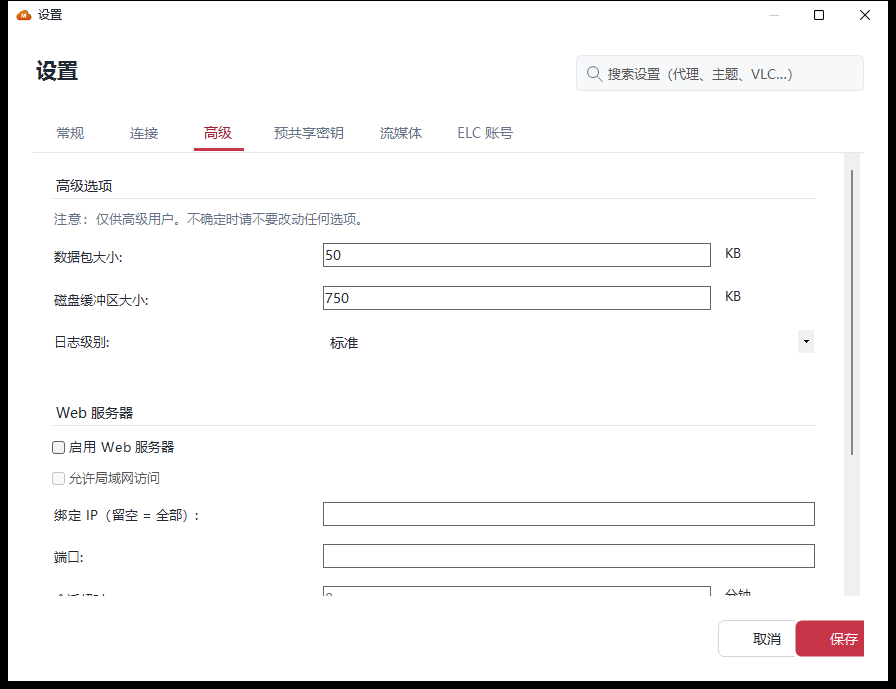
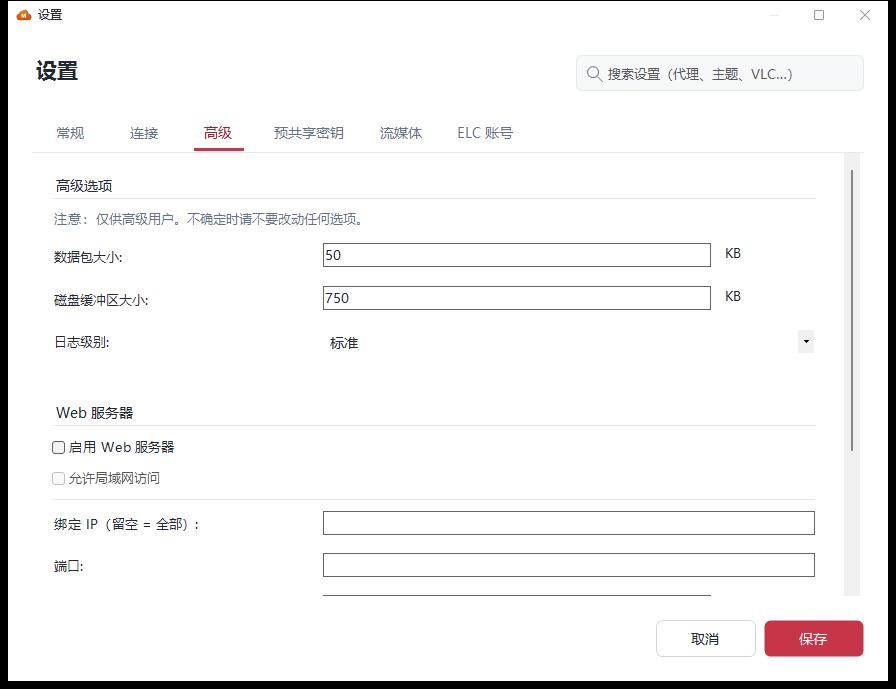
fix(ui): compact task details and add settings dividers; sync docs for revised 2.6.3
- Details panel: label and value share a row under a single-line title; the
  label column is measured from the current language's captions to avoid
  clipping, and the layout cache keys on size+captions so periodic value
  refreshes do not re-layout while language switches do. Removes the tall
  stacked rows and the scrollbar in the bottom details area.
- Settings: add SettingsDivider rules between logical sub-sections (general
  path / behaviour+update / appearance, proxy enable / params, web enable /
  params), matching the section-title rule colour so spacing reads as structure.
- Regenerate native screenshots from the Release fixture; sync CHANGELOG, the
  three READMEs, Tests / system-language / visual-refresh / screenshot /
  self-test notes to the revised 2.6.3 (1121 assertions, UI fixture 271).

Version stays 2.6.3; this replaces the original 2.6.3 release assets in place.

diff --git a/docs/CHANGELOG.md b/docs/CHANGELOG.md
@@ -14,7 +14,8 @@
 - 更新检查可配置：支持「仅手动检查」与自定义间隔（小时），后台不再固定定时弹窗；帮助菜单仍可手动检查并提示结果。
 - 简体中文界面文案整体重写为自然简体（511 条），旧安装升级时未自定义的语言副本自动同步；设置页「仅手动检查」「小时」按语言显示，浏览按钮不再拉宽压住输入框。
 - 下载与解压可靠性加固：分裂 key 链接识别、多卷等待状态机闭合、7z 事务式回滚、超长归档名哈希唯一化、加密多卷 RAR 本地化提示、流媒体 502 响应与下载退避代际修复。
-- 深浅色主题对比度达 WCAG 4.5:1；代理 host:port 解析、解压中退出提示与启动队列加载失败恢复修复；移除 18 个零引用死成员并归档文档。Debug / Release 完整回归各通过 **1102 项断言**。
+- 界面布局修正：修复添加链接 / 设置 / 预检 / 定时对话框底部按钮重叠（根因一处钳制）；选中任务的详情面板改为「标签＋值同行」紧凑布局、标题单行；设置分组内逻辑子段之间补分割线。
+- 深浅色主题对比度达 WCAG 4.5:1；代理 host:port 解析、解压中退出提示与启动队列加载失败恢复修复；移除 18 个零引用死成员并归档文档。Debug / Release 完整回归各通过 **1121 项断言**。
 
 ### 2.6.2（2026-11-05）
 
@@ -192,9 +193,16 @@
 - 移除 18 个零引用的死成员（含已下线的 IPC Remoting 入口、未接线的 SSL 回调与按钮事件、XP 版本判断、冗余包装方法等），覆盖 14 个源文件、148 行；无完全未引用的类型。
 - 删除首次提交带入的构建产物 `My Project/Resources.resources`（384KB，构建实际在 `obj/` 生成）；根目录两份审计笔记归入 `docs/`，清理空目录与失效的 `.gitignore` 条目。
 
+### 🖥 界面布局修正
+
+- 修复添加链接、设置、预检与定时对话框底部按钮重叠：`CommandButton.GetPreferredSize` 此前只报内容宽度、未按 `MinimumSize` 钳制，RightToLeft 流式面板按偏小值分配槽位，被撑宽的按钮溢出邻位（添加链接的取消 / 选择文件曾重叠 43px）。在根因处一处钳制即修复全部四处，且不复发浏览按钮被瞬态布局拉宽后缩不回的膨胀。
+- 主窗口选中任务的详情面板改为「标签＋值同行」紧凑布局，标题收为单行，消除原先标签 / 值上下堆叠造成的高留白与滚动条；标签列宽按当前语言字段名实测，避免翻译裁切，布局缓存按尺寸＋字段名区分（数值刷新不重排、切语言才重排）。
+- 设置分组内逻辑子段之间补细分割线（常规：下载路径｜行为与更新｜语言主题；代理：启用｜参数；Web 服务器：启用｜参数），与分组标题横线同色，原本空荡的留白变得有结构。
+- 新增按钮不重叠回归守卫（遍历各对话框 RightToLeft 操作面板、两两校验，含非空校验防止空跑），界面夹具断言 252→271。
+
 ### 🧪 发布验证
 
-- Debug / Release 构建无编译警告，完整回归各通过 **1102 项断言**（924→1006→1102），新增失败横幅重试 / 永久过滤、主题对比度、浏览按钮几何、简中繁中字形守卫、用户语言副本同步、加密多卷 RAR 提示、split-key、长名哈希唯一化、非首分卷等待与 StreamingModule 原始 TCP 502 等用例。
+- Debug / Release 构建无编译警告，完整回归各通过 **1121 项断言**（924→1006→1121），新增失败横幅重试 / 永久过滤、主题对比度、浏览按钮几何、简中繁中字形守卫、用户语言副本同步、加密多卷 RAR 提示、split-key、长名哈希唯一化、非首分卷等待、StreamingModule 原始 TCP 502 与四对话框按钮不重叠等用例。
 - 发布 ZIP 沿用明确清单：EXE、15 个依赖 DLL 与运行配置，共 17 个文件；单文件 EXE 内嵌 15 个依赖。日志、PDB、测试输出、临时截图、用户配置与本地工具状态不进入提交或发布包。
 - 本轮未验证真实 MEGA 传输、完整进程冷启动或其他设备的多屏 / 高 DPI 行为；RAR4 / RAR5 / 旧式分卷与 TAR 的真实样本由维护者手动验证，未落入回归夹具。
 

diff --git a/docs/README.ru-RU.md b/docs/README.ru-RU.md
@@ -42,7 +42,8 @@
 - **Естественный упрощённый китайский** — все 511 строк zh-CN переписаны как естественный упрощённый китайский; существующие неизменённые языковые копии синхронизируются при обновлении. «Только ручная проверка» и единица часов переведены, а кнопки обзора больше не растягиваются поверх полей ввода.
 - **Надёжнее загрузки и распаковка** — разделённые ключи, испорченные мессенджерами, снова распознаются; многотомные архивы ждут и распаковываются комплектом; 7z распаковывается транзакционно с откатом при сбое; сверхдлинные имена получают уникальные хеш-суффиксы; ошибки зашифрованных многотомных RAR локализованы.
 - **Читаемые темы и безопасный выход** — контраст акцентов, фона и баннера квоты в светлой/тёмной теме соответствует WCAG 4.5:1; закрытие окна во время распаковки предупреждает о риске повреждения; исправлены разбор proxy host:port и восстановление загрузки очереди при старте.
-- **Чище код, 1102 проверки** — удалены 18 неиспользуемых мёртвых членов и посторонний артефакт сборки, документы упорядочены. Наборы Debug / Release проходят по 1102 регрессионные проверки. [Полный список изменений](CHANGELOG.md).
+- **Кнопки не перекрываются, компоновка плотнее** — кнопки отмены и основного действия больше не сталкиваются в окнах добавления ссылок, настроек, предпроверки и расписания; панель сведений о задаче стала компактной сеткой «метка＋значение» с однострочным заголовком; между подгруппами настроек добавлены разделительные линии.
+- **Чище код, 1121 проверки** — удалены 18 неиспользуемых мёртвых членов и посторонний артефакт сборки, документы упорядочены. Наборы Debug / Release проходят по 1121 регрессионные проверки. [Полный список изменений](CHANGELOG.md).
 
 ## Возможности рабочего стола, появившиеся в 2.6
 

diff --git a/Tests/README.md b/Tests/README.md
@@ -1,6 +1,6 @@
 # 回归验证
 
-2.6.3 发布检查（2026-11-14）：使用 `bin/Release-2.6.3` 独立输出目录运行完整回归与界面专项，Debug / Release 完整回归各通过 **1102 项断言**（924→1006→1102），界面专项通过 252 项。新增失败横幅重试 / 永久过滤、主题对比度、浏览按钮几何、简中繁中字形守卫、用户语言副本同步、加密多卷 RAR 提示、split-key、长名哈希唯一化、非首分卷等待与 StreamingModule 原始 TCP 502 等用例。单文件版校验全部 15 个内嵌依赖；ZIP 仅包含 EXE、15 个 DLL 与运行配置共 17 个文件。文档截图取自本次 Release 隔离夹具，清单见 [截图说明](../docs/screenshots/README.md)。本轮另移除 18 个零引用死成员与构建产物 `My Project/Resources.resources`，根目录审计笔记归入 `docs/`。
+2.6.3 修订包发布检查（2026-11-14，替换原始 2.6.3 资产）：使用 `bin/Release-uifix` 独立输出目录运行完整回归与界面专项，Debug / Release 完整回归各通过 **1121 项断言**（924→1006→1121），界面专项通过 271 项。在原始 2.6.3 用例（失败横幅重试 / 永久过滤、主题对比度、浏览按钮几何、简中繁中字形守卫、用户语言副本同步、加密多卷 RAR 提示、split-key、长名哈希唯一化、非首分卷等待、StreamingModule 原始 TCP 502）之上，新增四对话框 RightToLeft 操作面板按钮两两不重叠守卫（含非空校验）。单文件版校验全部 15 个内嵌依赖；ZIP 仅包含 EXE、15 个 DLL 与运行配置共 17 个文件。文档截图取自本次 Release 隔离夹具（详情面板紧凑同行、设置分组分割线），清单见 [截图说明](../docs/screenshots/README.md)。本轮另移除 18 个零引用死成员与构建产物 `My Project/Resources.resources`，根目录审计笔记归入 `docs/`。版本号保持 `2.6.3`，已装原始 2.6.3 需手动替换。
 
 2026-11-14 审计修复基线（a2c1d47）：Debug/Release 双跑完整回归各通过 **1006 项断言**（936→1006，新增 `FinalReleaseCases`：队列备份完整性、解压事务与回滚、分卷等待 lifecycle、停止代际竞态、更新提醒/代理）。RAR4/RAR5/旧式分卷与 TAR 的真实样本由维护者手动验证，未落入回归夹具。
 

diff --git a/README.md b/README.md
@@ -42,7 +42,8 @@
 - **Natural Simplified Chinese** — all 511 zh-CN strings rewritten as natural Simplified Chinese, and existing uncustomized language copies sync automatically on upgrade. "Manual check only" and the hour unit are now translated, and browse buttons no longer stretch over their input boxes.
 - **More reliable downloads and extraction** — split keys mangled by chat apps are recognised again; multi-volume archives wait and extract as a set; 7z extraction commits transactionally and rolls back on failure; over-long archive names get unique hash suffixes; encrypted multi-volume RAR errors are localized.
 - **Readable themes and safer exits** — light/dark accent, surface and quota-banner text meet WCAG 4.5:1 contrast; closing the window while extracting warns about corruption danger; proxy host:port parsing and startup queue-load recovery are fixed.
-- **Cleaner code, 1102 assertions** — 18 unreferenced dead members and a stray build artifact removed, and the docs reorganized. Debug / Release each pass 1102 regression assertions. [Full changelog](docs/CHANGELOG.md).
+- **No overlapping buttons, tighter layout** — Cancel / primary-action buttons no longer collide in Add Links, Settings, pre-flight and schedule; the selected-task details panel is a compact label＋value grid with a single-line title; settings groups gain divider lines between sub-sections.
+- **Cleaner code, 1121 assertions** — 18 unreferenced dead members and a stray build artifact removed, and the docs reorganized. Debug / Release each pass 1121 regression assertions. [Full changelog](docs/CHANGELOG.md).
 
 ## Workbench features introduced in 2.6
 

diff --git a/docs/README.zh-CN.md b/docs/README.zh-CN.md
@@ -42,7 +42,8 @@
 - **自然简体中文**：511 条简中文案整体重写为自然简体，旧安装升级时未自定义的语言副本自动同步；「仅手动检查」与小时单位按语言显示，浏览按钮不再拉宽压住输入框。
 - **下载与解压更可靠**：被聊天软件截断的分裂 key 重新识别；多卷归档成套等待与解压；7z 事务式提交、失败回滚；超长归档名哈希唯一化；加密多卷 RAR 错误本地化。
 - **主题更清晰、退出更安全**：深浅色主按钮、底色与配额横幅文字对比度达 WCAG 4.5:1；解压中关窗提示损坏风险；修复代理 host:port 解析与启动队列加载失败恢复。
-- **代码更干净，1102 项断言**：移除 18 个零引用死成员与一个构建产物，文档归档整理；Debug / Release 完整回归各通过 1102 项断言。[完整变更](CHANGELOG.md)。
+- **按钮不再重叠、布局更紧凑**：添加链接 / 设置 / 预检 / 定时对话框的取消与主操作按钮不再重叠；选中任务的详情面板改为「标签＋值同行」紧凑布局、标题单行；设置分组内逻辑子段之间补分割线。
+- **代码更干净，1121 项断言**：移除 18 个零引用死成员与一个构建产物，文档归档整理；Debug / Release 完整回归各通过 1121 项断言。[完整变更](CHANGELOG.md)。
 
 ## 2.6 引入的工作台功能
 

diff --git a/docs/SYSTEM-LANGUAGE.zh-CN.md b/docs/SYSTEM-LANGUAGE.zh-CN.md
@@ -21,6 +21,6 @@
 
 验证：2.6.1 的 Release 完整回归通过 **509 项断言**。语言用例覆盖自动／手动选择、地区与文字体系匹配、缺失语言回退、重新初始化、自定义翻译保留、损坏文件回退及设置页的自动选项绑定。语言初始化用临时目录测试，不写入用户语言文件。
 
-自动语言功能自 2.6.1 起提供，2.6.2 新增俄语内置包，共 11 种界面语言。2.6.3 将简体中文界面文案整体重写为自然简体，并在升级时自动同步未自定义的用户语言副本；「仅手动检查」与更新间隔的小时单位按语言显示。当前版本 Debug / Release 完整回归各通过 **1102 项断言**；上方 509 项为 2.6.1 的历史记录。
+自动语言功能自 2.6.1 起提供，2.6.2 新增俄语内置包，共 11 种界面语言。2.6.3 将简体中文界面文案整体重写为自然简体，并在升级时自动同步未自定义的用户语言副本；「仅手动检查」与更新间隔的小时单位按语言显示。当前版本 Debug / Release 完整回归各通过 **1121 项断言**；上方 509 项为 2.6.1 的历史记录。
 
 当前下载入口见 [2.6.3 GitHub Release](https://github.com/a1175815821/MegaDownloader-Revival/releases/tag/v2.6.3)。本次发布验证构建为 `bin/Release-2.6.3/MegaDownloader.exe`。

diff --git a/docs/UI-VISUAL-REFRESH.zh-CN.md b/docs/UI-VISUAL-REFRESH.zh-CN.md
@@ -45,6 +45,6 @@
 .\Tests\Run-RegressionTests.ps1 -OutputDirectory bin\Release-VisualRefresh -UiOnly
 ```
 
-2.6.1 发布前已重新截图并统一到 `docs/screenshots/`，不再重复保留 `visual-refresh/` 里的旧图。2.6.3 发布时再次从当前 Release 隔离夹具更新截图（浏览按钮改为内容驱动尺寸、设置页翻译补齐），Debug / Release 完整回归各通过 1102 项断言。清单及重现方式见 [原生截图](screenshots/README.md)。
+2.6.1 发布前已重新截图并统一到 `docs/screenshots/`，不再重复保留 `visual-refresh/` 里的旧图。2.6.3 发布时再次从当前 Release 隔离夹具更新截图（浏览按钮改为内容驱动尺寸、设置页翻译补齐）；替换原始 2.6.3 资产的修订包进一步修正对话框按钮重叠、详情面板紧凑同行布局与设置分组分割线，并同步重生成截图，Debug / Release 完整回归各通过 1121 项断言、界面夹具 271 项。清单及重现方式见 [原生截图](screenshots/README.md)。
 
 框架依据：[微软的 DWM 窗口属性文档](https://learn.microsoft.com/en-us/windows/win32/api/dwmapi/ne-dwmapi-dwmwindowattribute)。

diff --git a/docs/screenshots/README.md b/docs/screenshots/README.md
@@ -1,6 +1,6 @@
 # 2.6.3 界面截图
 
-以下图片来自 2.6.3 Release 编译产物的原生 WinForms 控件，通过隔离界面夹具与 `PrintWindow` 截取。任务、元数据和下载路径均为示例；不加载真实账号或队列，也不启动 MEGA 下载。界面语言为简体中文。`banner.png` 与 `social-preview.png` 为沿用的项目宣传图。
+以下图片来自 2.6.3 Release 编译产物（替换原始资产的修订包：详情面板紧凑同行、设置分组分割线、对话框按钮不重叠）的原生 WinForms 控件，通过隔离界面夹具与 `PrintWindow` 截取。任务、元数据和下载路径均为示例；不加载真实账号或队列，也不启动 MEGA 下载。界面语言为简体中文。`banner.png` 与 `social-preview.png` 为沿用的项目宣传图。
 
 在仓库根目录运行：
 

diff --git a/docs/SELF-TEST-要点.md b/docs/SELF-TEST-要点.md
@@ -1,5 +1,7 @@
 # MegaDownloader 自测要点（本轮修复）
 
+> **修订包（替换原始 2.6.3 资产，2026-11-14）**：完整回归 `PASS: 1121 assertions`（Debug/Release），界面夹具 271 项。新增自测点：① 添加链接/设置/预检/定时对话框底部「取消」与主操作按钮不再重叠；② 选中任务后底部详情为「标签＋值同行」紧凑布局、标题单行、无多余滚动条；③ 设置常规/代理/Web 分组内子段之间有分割线。版本号仍为 2.6.3，已装原始 2.6.3 需关闭后手动替换 EXE/ZIP。下方 1102 基线为原始 2.6.3 的历史记录。
+
 > exe：`bin/Release/MegaDownloader.exe`（v2.6.2.0，代码提交 `1283f67`，SHA256 `6D79B0DD…54084`）。
 > 完整回归：`PASS: 1102 assertions`。
 
